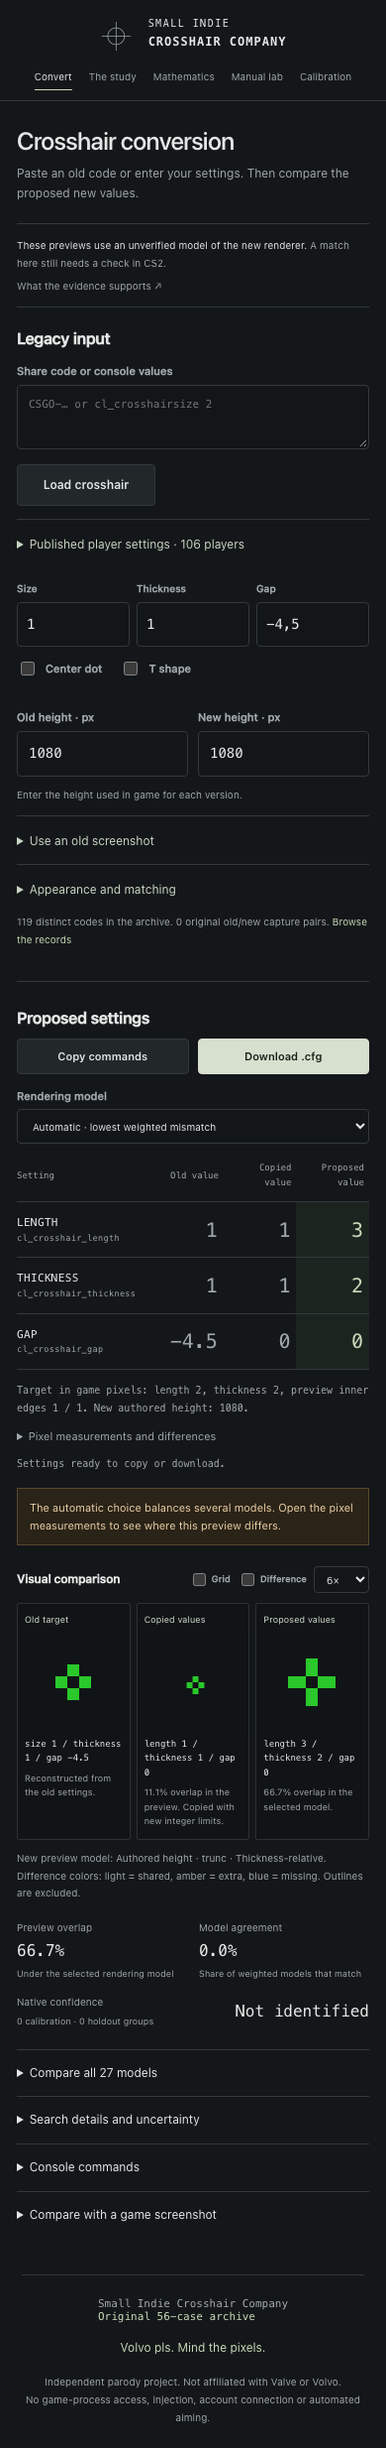
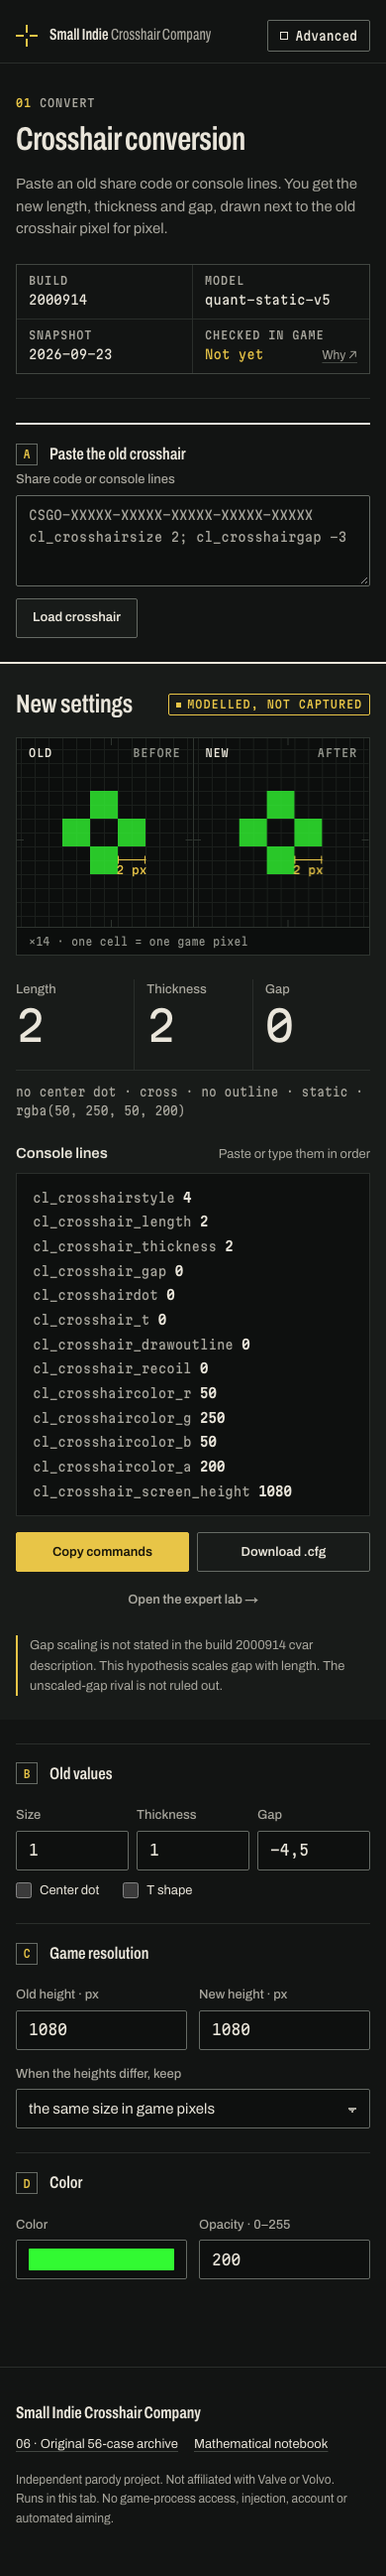
docs: describe the inspection-sheet design and refresh the screenshot tour
Rewrites docs/engineering/design.md, adds an Unreleased CHANGELOG entry,
updates the README tour copy, and recaptures the tour in the dark theme.
capture_tour.py now switches to the expert lab before visiting other
sheets (their nav links are hidden in Simple mode).

diff --git a/tests/browser/capture_tour.py b/tests/browser/capture_tour.py
@@ -23,7 +23,7 @@ def main():
     errors, external = [], []
     with sync_playwright() as p:
         browser = p.chromium.launch(headless=True)
-        page = browser.new_page(viewport={'width': 1440, 'height': 1050}, device_scale_factor=1)
+        page = browser.new_page(viewport={'width': 1440, 'height': 1050}, device_scale_factor=1, color_scheme='dark')
         page.on('pageerror', lambda e: errors.append(str(e)))
         page.on('console', lambda message: errors.append(message.text) if message.type == 'error' else None)
         page.on('request', lambda request: external.append(request.url)
@@ -35,6 +35,7 @@ def main():
         assert page.locator('.quant-previews canvas').count() == 3
         page.screenshot(path=str(args.output / 'converter.png'))
 
+        page.click('#mode-toggle')  # Simple mode hides the other sheets' nav links.
         page.click('[data-route="corpus"]')
         page.wait_for_selector('#corpus-records')
         page.locator('#corpus-records').evaluate('(element) => element.scrollIntoView({block: "start", behavior: "instant"})')

diff --git a/docs/engineering/design.md b/docs/engineering/design.md
@@ -1,41 +1,85 @@
 # Interface design and browser review
 
-The design is an understated dark measurement workbench: a left parameter rail,
-two large pixel inspection canvases, native-value controls, and configuration
-output. Mint is the interaction accent; warm amber distinguishes warnings. A
-system-font stack keeps the project offline and avoids shipping font files.
+The interface follows one idea: **the app is a small, very serious metrology
+office that issues an inspection sheet for your crosshair.** Each route is a
+numbered sheet (01 Convert through 06 Archive). Each sheet head carries a
+drawing-style *title block* with the build, model, snapshot and the field
+**Checked in game: Not yet**. The uncertainty is a field on the sheet, not a
+repeated banner. The reasoning, the audience profile and the three directions
+that were considered are in [`DESIGN_BRIEF.md`](../../DESIGN_BRIEF.md).
 
-The product surface is the working tool, not a landing page. Four fragment-routed
-tabs separate Workbench, Mathematics, Calibration and Evidence. It has no marketing
-metrics, account controls, generated photographic backgrounds or unrelated charts.
-The visible crosshairs and grids are necessarily code-native mathematical graphics.
-No image-generated concept or externally approved mockup is claimed.
+## System rules
 
-## Responsive behavior
+- **Paper and plate.** The page is paper: graphite in the dark theme, bone in
+  the light one, following the OS. The crosshair always sits on a dark
+  *specimen plate*, because the plate stands in for the game screen. The
+  user's crosshair colour is the only saturated colour on the plate.
+- **Archivo speaks, Martian Mono measures.**
+  - Archivo is used condensed for sheet titles and at normal width for text.
+  - Martian Mono is used for everything a player could type into the
+    console: values, cvars, codes, tags and sheet numbers.
+  - Both are self-hosted OFL variable fonts
+    ([ADR-0006](decisions/0006-self-hosted-open-licensed-typefaces.md)).
+- **One signal colour.** Sodium yellow (ochre on light paper) marks
+  annotations, focus, the primary action and conditional status. Vermilion is
+  reserved for blockers and errors. Green never appears in the UI chrome, so
+  the crosshair is never competing with it.
+- **Hairlines, not shadows.** Square instruments, 1 px rules, and a heavy
+  2 px rule to open a region. The only shadow belongs to the modal dialog.
+- **Tokens first.** Every colour, size, space and duration is a custom
+  property in `app/styles.css`, including the canvas colours: the preview
+  painters read `--plate`, `--plate-grid`, `--plate-annot` and `--diff-*` at
+  paint time.
 
-At a wide desktop the parameter rail and inspector are adjacent. Small viewports
-stack inputs and previews; data tables scroll inside their own bounded containers.
-Controls retain labels and keyboard access; colors are not the only signal for
-model status. Native settings use integers and legacy inputs allow fractions.
-Error/status messages are text and expose changes through status regions.
+## Primary screen
 
-Canvas display zoom and horizontal stretch are explicitly presentation operations,
-not a change to the underlying geometry or exported settings. Pixel differences
-compare two simulated geometry masks and stay labeled as model-only information.
+The Simple view of sheet 01 is an input column (A paste, B old values,
+C resolution, D colour) beside a sticky **reading** panel. The reading panel
+holds:
+
+- two specimen plates at one shared, auto-fitted magnification (for example
+  "×20 · one cell = one game pixel"), with dimension lines reporting the
+  drawn arm length and thickness in game pixels;
+- the three new values as large numerals;
+- the console lines as text, so they can be typed by hand;
+- copy and download actions.
+
+On phones the order changes: paste, then the answer, then adjustments.
+
+Magnification, grid and dimension lines are presentation only. They never
+change geometry, inference or exports.
+
+## States
+
+- **Pending:** the numerals dim while the worker computes, and nothing moves.
+- **Error:** the message replaces the answer under the reading heading, and
+  the plates say "No valid input".
+- **Blocked:** the first blocker is shown in full, and copy and download are
+  disabled.
+- **Status regions:** they stay `role="status"`. Colour is never the only
+  signal: tags carry text, and diff colours are named in the captions.
+
+## Accessibility
+
+- All text roles meet WCAG 2.2 AA in both themes (ink ≥ 14:1, secondary ink
+  ≥ 6:1, signal text ≥ 5.5:1).
+- Control boundaries use `--edge` (≥ 3:1).
+- Focus is a 2 px signal outline.
+- Motion is limited to short opacity and rotation transitions, and is removed
+  under `prefers-reduced-motion`.
+- Forced-colours mode keeps the tag and toggle markers visible.
 
 ## Review process
 
-Browser screenshots are obtained from the actual HTML, CSS and ES modules. The
-construction environment's managed Chromium blocks HTTP navigation, including
-localhost. Its policy was not changed. Browser interaction and visual testing use
-an in-memory local-source harness on a blank page. Separate Node HTTP tests cover
-server status, headers, asset delivery and denied paths. This is not claimed to be
-an end-to-end CSP-enforced navigation test.
+Browser screenshots are taken from the real HTML, CSS and ES modules over the
+local server (`npm run dev`) with Playwright:
 
-Review targets: desktop 1440 × 1150 and mobile 390 × 844. Inspect all four surfaces,
-parameter labels, heading hierarchy, canvas alignment, control spacing, narrow
-viewport overflow, notice readability, and configuration output wrapping. Temporary
-screenshots and browser-generated files are excluded from the repository.
+- viewports: 1440, 768 and 390 wide;
+- both colour schemes;
+- every route, plus the error, blocked, dialog and focus states.
 
-No ten-out-of-ten design rating, full accessibility audit, browser-matrix approval,
-or native game rendering validation is asserted.
+`tests/browser/quant_browser.py` and `tests/browser/browser_smoke.py` run in
+both localhost and `--in-memory` modes.
+
+No ten-out-of-ten design rating, full accessibility audit, browser-matrix
+approval or native game rendering validation is asserted.

diff --git a/README.md b/README.md
@@ -25,10 +25,12 @@ npm run dev
 Open **http://127.0.0.1:4173**. Use a web server rather than opening `index.html`
 as a file: the app loads modules, local data, and a worker.
 
-The app opens in the **Simple** view, which keeps only the essential controls.
-Select **Advanced** in the masthead to open the full **Expert** lab with the
-27-model table, derivations, search trace, evidence and measurements. Mode is
-held only in the page, not saved to your device.
+The app opens in the **Simple** view: paste on the left, the answer on the right.
+It shows the old and new crosshair on dimensioned pixel plates, the three new
+values, and the console lines to paste or type. Select **Advanced** in the
+masthead to open the full **Expert** lab with the 27-model table, derivations,
+search trace, evidence and measurements. Mode is held only in the page, not
+saved to your device. The interface follows your system's light or dark theme.
 
 1. Paste a legacy v1 share code or old `cl_crosshair...` settings. You can also
    enter values, choose a published preset, or measure an original PNG.
@@ -45,16 +47,18 @@ export uses cvar commands.
 ## Screenshot tour
 
 These are screenshots of the local app with bundled settings and synthetic
-previews. They are not captures from CS2. The tour was captured in the **Expert**
-view; the app now opens in the **Simple** view, which you can expand with the
-masthead **Advanced** button.
+previews. They are not captures from CS2. The converter screenshot shows the
+default **Simple** view; the masthead **Advanced** button expands it into the
+Expert lab.
 
 ### 1. Convert and compare
 
-Edit the old values and compare all three previews at the same scale. Expand the
-pixel differences to see where a proposed conversion misses the target.
+Paste a code or edit the old values. The reading panel draws the old and new
+crosshair at the same magnification, with their arm length and thickness
+dimensioned in game pixels. The Expert lab adds the copied-values preview and the
+pixel differences that show where a proposed conversion misses the target.
 
-![Converter showing old values, proposed settings, and three pixel previews](docs/screenshots/converter.png)
+![Converter with the old values on the left and the new settings, dimensioned pixel plates and console lines on the right](docs/screenshots/converter.png)
 
 ### 2. Browse the source settings
 

diff --git a/CHANGELOG.md b/CHANGELOG.md
@@ -1,5 +1,20 @@
 # Changelog
 
+## Unreleased
+
+- Redesign the interface as an "inspection sheet"
+  ([design](docs/engineering/design.md), `DESIGN_BRIEF.md`):
+  - token-driven light and dark themes;
+  - self-hosted Archivo and Martian Mono (OFL,
+    [ADR-0006](docs/engineering/decisions/0006-self-hosted-open-licensed-typefaces.md));
+  - sheet-numbered navigation and title blocks;
+  - a Simple view that puts the answer (dimensioned before/after plates at an
+    auto-fitted magnification, three readout values and the console lines as
+    text) beside the inputs.
+- The CSP changes from `font-src 'none'` to `font-src 'self'`, and the dev
+  server serves `.woff2`.
+- Conversion results, exports, routes and element IDs are unchanged.
+
 ## 0.4.0 — 2026-09-24
 
 - Reorganize the repository by responsibility ([ADR-0005](docs/engineering/decisions/0005-layered-lib-and-research-isolation.md)):
